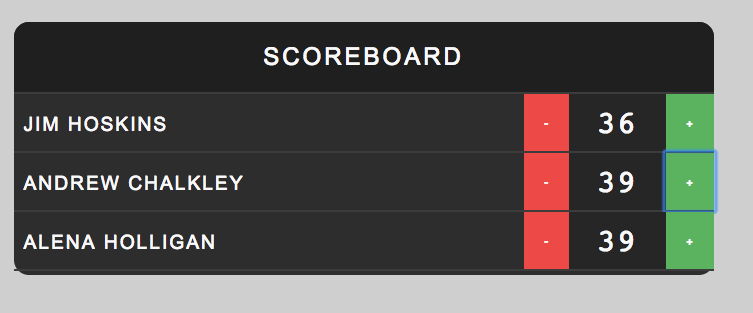
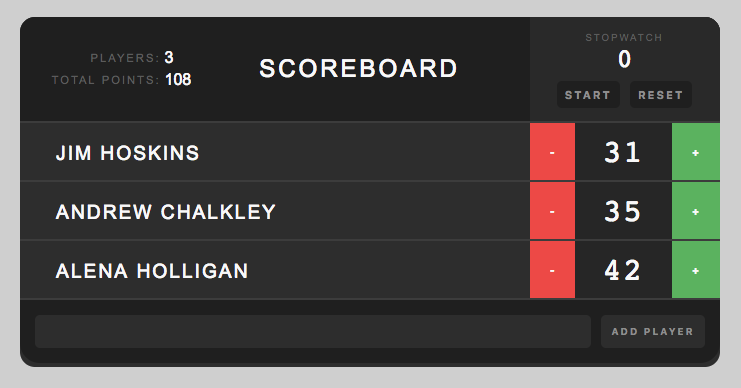
Updated: 1) Implement - Communicating Events 2) Adding Data Flow Handling 3) screen capture is different now

diff --git a/app.jsx b/app.jsx
@@ -15,58 +15,171 @@ var PLAYERS = [
     id: 3,
   },
 ];
+var nextId = 4;
+
+var Stopwatch = React.createClass({
+  getInitialState: function() {
+    return {
+      running: false,
+      elapsedTime: 0,
+      previousTime: 0,
+    }
+  },
+  
+  componentDidMount: function() {
+    this.interval = setInterval(this.onTick, 100);
+  },
+  
+  componentWillUnmount: function() {
+    clearInterval(this.interval);
+  },
+  
+  onTick: function() {
+    if (this.state.running) {
+      var now = Date.now();
+      this.setState({
+        previousTime: now,
+        elapsedTime: this.state.elapsedTime + (now - this.state.previousTime),
+      });
+    }
+    console.log('onTick');
+  },
+  
+  onStart: function() {
+    this.setState({ 
+      running: true,
+      previousTime: Date.now(),
+    });
+  },
+  
+  onStop: function() {
+    this.setState({ running: false });
+  },
+  
+  onReset: function() {
+    this.setState({
+      elapsedTime: 0,
+      previousTime: Date.now(),
+    });
+  },
+  
+  render: function() {
+    var seconds = Math.floor(this.state.elapsedTime / 1000);
+    return (
+      <div className="stopwatch">
+        <h2>Stopwatch</h2>
+        <div className="stopwatch-time">{seconds}</div>
+        { this.state.running ? 
+          <button onClick={this.onStop}>Stop</button> 
+          : 
+          <button onClick={this.onStart}>Start</button>
+        } 
+        <button onClick={this.onReset}>Reset</button>
+      </div>
+    );
+  }
+});
+  
+var AddPlayerForm = React.createClass({
+  propTypes: {
+    onAdd: React.PropTypes.func.isRequired,
+  },
+  
+  getInitialState: function() {
+    return {
+      name: "",
+    };
+  },
+  
+  onNameChange: function(e) {
+    this.setState({name: e.target.value});
+  },
+  
+  onSubmit: function(e) {
+    e.preventDefault();
+  
+    this.props.onAdd(this.state.name);
+    this.setState({name: ""});
+  },
+  
+  
+  render: function() {
+    return (
+      <div className="add-player-form">
+        <form onSubmit={this.onSubmit}>
+          <input type="text" value={this.state.name} onChange={this.onNameChange} />
+          <input type="submit" value="Add Player" />
+        </form>
+      </div>
+    ); 
+  }
+});
+  
+function Stats(props) {
+  var totalPlayers = props.players.length;
+  var totalPoints = props.players.reduce(function(total, player){
+    return total + player.score;
+  }, 0);
+  
+  return (
+    <table className="stats">
+      <tbody>
+        <tr>
+          <td>Players:</td>
+          <td>{totalPlayers}</td>
+        </tr>
+        <tr>
+          <td>Total Points:</td>
+          <td>{totalPoints}</td>
+        </tr>
+      </tbody>
+    </table>
+  )  
+}
+  
+Stats.propTypes = {
+  players: React.PropTypes.array.isRequired,
+};
 
 function Header(props) {
   return (
     <div className="header">
+      <Stats players={props.players}/>
       <h1>{props.title}</h1>
+      <Stopwatch />
     </div>
   );
 }
 
 Header.propTypes = {
   title: React.PropTypes.string.isRequired,
+  players: React.PropTypes.array.isRequired,
 };
 
-var Counter = React.createClass({
-  propTypes: {
-      initialScore: React.PropTypes.number.isRequired,
-  },
-  getInitialState: function() {
-    return {
-      score: this.props.initialScore,
-    }
-  },
-  incrementScore: function(){
-     this.setState({
-        score: (this.state.score + 1),
-     });
-  },
-  descreaseScore: function(){
-     this.setState({
-        score: (this.state.score - 1),
-     });
-  },
-  render: function() {
-    return (
-      <div className="counter">
-        <button className="counter-action decrement" onClick={this.descreaseScore}> - </button>
-        <div className="counter-score"> {this.state.score} </div>
-        <button className="counter-action increment" onClick={this.incrementScore}> + </button>
-      </div>
-    );
-  }
-});
-
+function Counter(props) {
+  return (
+    <div className="counter">
+      <button className="counter-action decrement" onClick={function() {props.onChange(-1);}} > - </button>
+      <div className="counter-score"> {props.score} </div>
+      <button className="counter-action increment" onClick={function() {props.onChange(1);}}> + </button>
+    </div>
+  );
+}
+  
+Counter.propTypes = {
+  score: React.PropTypes.number.isRequired,
+  onChange: React.PropTypes.func.isRequired,
+}
 
 function Player(props) {
   return (
     <div className="player">
       <div className="player-name">
+        <a className="remove-player" onClick={props.onRemove}>✖</a>
         {props.name}
       </div>
       <div className="player-score">
-        <Counter initialScore={props.score}/>
+        <Counter score={props.score} onChange={props.onScoreChange} />
       </div>
     </div>
   );
@@ -75,33 +188,77 @@ function Player(props) {
 Player.propTypes = {
   name: React.PropTypes.string.isRequired,
   score: React.PropTypes.number.isRequired,
+  onScoreChange: React.PropTypes.func.isRequired,
+  onRemove: React.PropTypes.func.isRequired,
 };
 
-function Application(props) {
-  return (
-    <div className="scoreboard">
-      <Header title={props.title} />
+
+
+var Application = React.createClass({
+  propTypes: {
+    title: React.PropTypes.string,
+    initialPlayers: React.PropTypes.arrayOf(React.PropTypes.shape({
+      name: React.PropTypes.string.isRequired,
+      score: React.PropTypes.number.isRequired,
+      id: React.PropTypes.number.isRequired,
+    })).isRequired,
+  },
+  
+  getDefaultProps: function() {
+    return {
+      title: "Scoreboard",
+    }
+  },
+  
+  getInitialState: function() {
+    return {
+      players: this.props.initialPlayers,
+    };
+  },
+  
+  onScoreChange: function(index, delta) {
+    this.state.players[index].score += delta;
+    this.setState(this.state);
+  },
     
-      <div className="players">
-        {props.players.map(function(player) {
-          return <Player name={player.name} score={player.score} key={player.id} />
-        })}
+  onPlayerAdd: function(name) {
+    this.state.players.push({
+      name: name,
+      score: 0,
+      id: nextId,
+    });
+    this.setState(this.state);
+    nextId += 1;
+  },
+    
+  onRemovePlayer: function(index) {
+    this.state.players.splice(index, 1);
+    this.setState(this.state);
+  },
+  
+  render: function() {
+    return (
+      <div className="scoreboard">
+        <Header title={this.props.title} players={this.state.players} />
+      
+        <div className="players">
+          {this.state.players.map(function(player, index) {
+            return (
+              <Player 
+                onScoreChange={function(delta) {this.onScoreChange(index ,delta)}.bind(this)}
+                onRemove={function() {this.onRemovePlayer(index)}.bind(this)}
+                name={player.name} 
+                score={player.score} 
+                key={player.id} />
+            );
+          }.bind(this))}
+        </div>
+        <AddPlayerForm onAdd={this.onPlayerAdd} />
       </div>
-    </div>
-  );
-}
+    );
+  }
+});  
 
-Application.propTypes = {
-  title: React.PropTypes.string,
-  players: React.PropTypes.arrayOf(React.PropTypes.shape({
-    name: React.PropTypes.string.isRequired,
-    score: React.PropTypes.number.isRequired,
-    id: React.PropTypes.number.isRequired,
-  })).isRequired,
-};
 
-Application.defaultProps = {
-  title: "Scoreboard",
-}
 
-ReactDOM.render(<Application players={PLAYERS}/>, document.getElementById('container'));
+ReactDOM.render(<Application initialPlayers={PLAYERS}/>, document.getElementById('container'));
